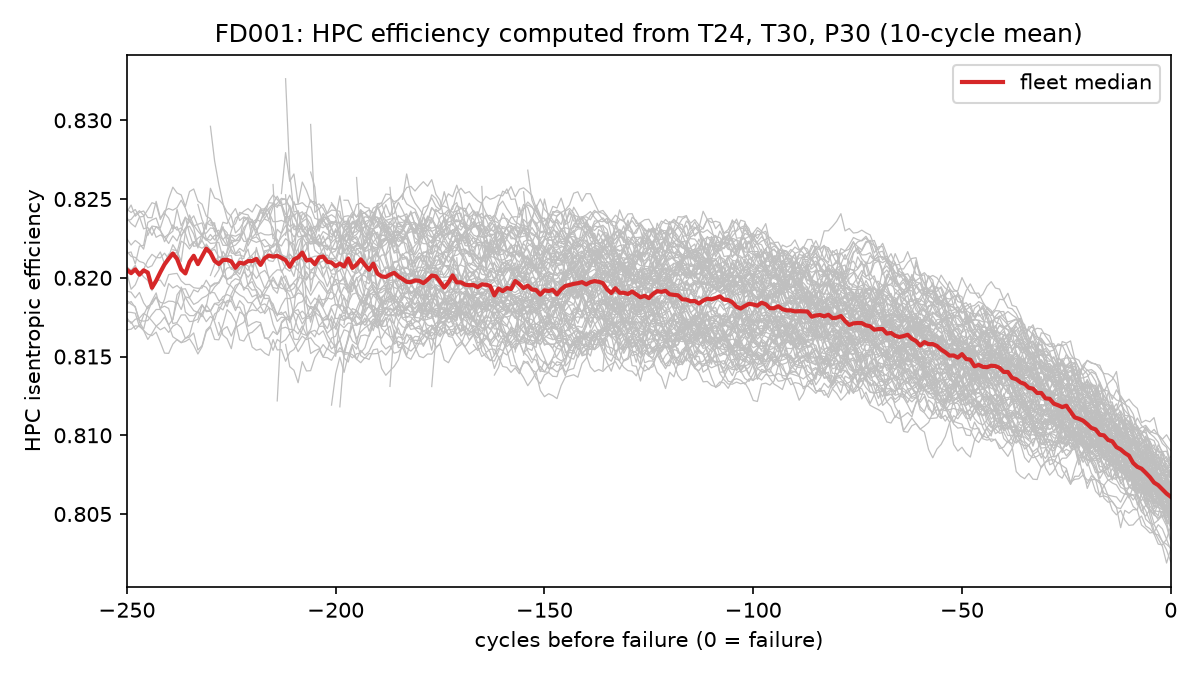
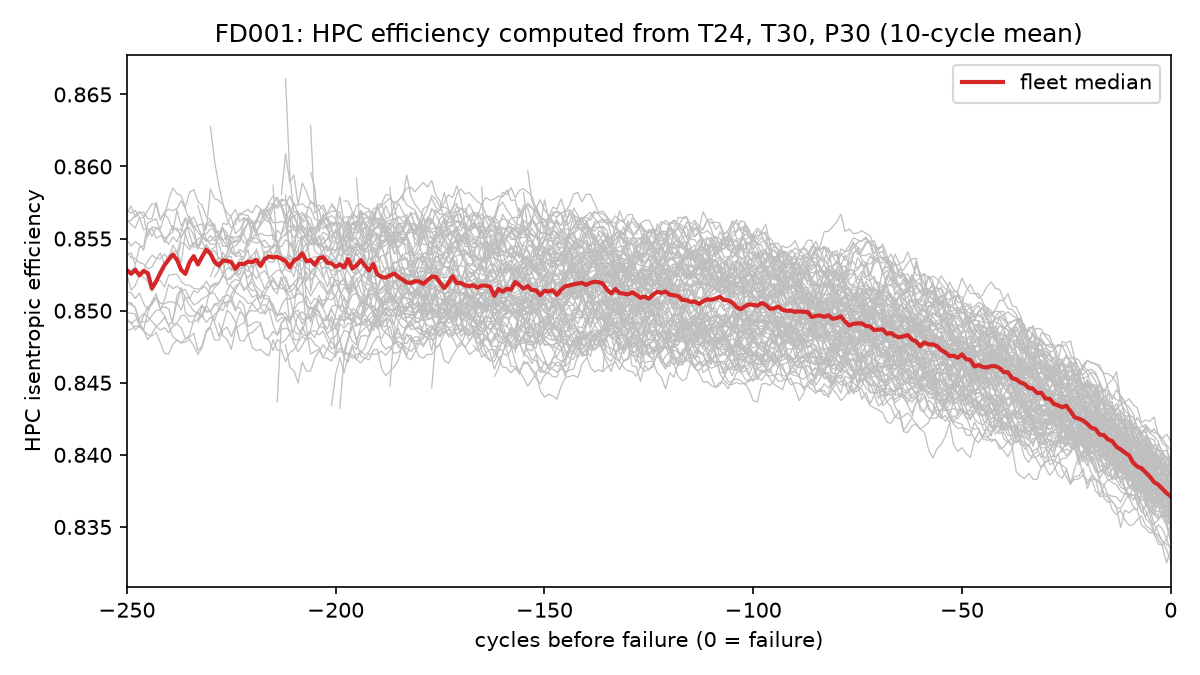
Week 2 step 2: variable-cp gas model, components, tests

diff --git a/src/physics/gas.py b/src/physics/gas.py
@@ -1,69 +1,155 @@
 """Gas properties and the basic compressor / turbine equations.
 
 Units follow the C-MAPSS data: temperature in degR, pressure in psia,
-energy in BTU per lbm of gas.
+energy in BTU per lbm.
 
-All temperatures and pressures here are TOTAL (stagnation) values,
-the ones a probe facing the flow measures.
+All temperatures and pressures are TOTAL (stagnation) values unless a
+name says "static".
+
+Step 2 upgrade: specific heat cp now changes with temperature and with
+fuel-air ratio (far). Air at 1600 degR has a cp about 10% higher than at
+room temperature, which matters for efficiency numbers.
+
+Instead of cp*dT we use two functions of temperature:
+  h(T)    enthalpy, the energy content of the gas        dh   = cp dT
+  phi(T)  entropy function, used for ideal compression   dphi = cp dT / T
+An ideal (isentropic) process from P1 to P2 obeys:
+  phi(T2) - phi(T1) = R * ln(P2 / P1)
 """
-from dataclasses import dataclass
+import numpy as np
+from numpy.polynomial import Polynomial as Poly
+
+# --- Property polynomials ---------------------------------------------------
+# cp in kJ/(kg K) as a polynomial in z = T[K] / 1000.
+# Source: Walsh & Fletcher, "Gas Turbine Performance", 2nd ed., ch. 3.
+# AIR: dry air. FUEL: correction for burnt kerosene, scaled by far/(1+far).
+_CP_AIR_SI = Poly([0.992313, 0.236688, -1.852148, 6.083152, -8.893933,
+                   7.097112, -3.234725, 0.794571, -0.081873])
+_CP_FUEL_SI = Poly([-0.718874, 8.747481, -15.863157, 17.254096, -10.233795,
+                    3.081778, -0.361112, -0.003919])
+
+KJKG_TO_BTULBM = 0.429923        # 1 kJ/kg   = 0.4299 BTU/lbm
+KJKGK_TO_BTULBMR = 0.238846      # 1 kJ/kg K = 0.2388 BTU/(lbm degR)
+R_GAS = 0.068557                 # gas constant of air, BTU/(lbm degR)
+T_REF = 518.67                   # reference temperature (59 degF), h = 0 here
+LHV = 18_400.0                   # jet fuel lower heating value, BTU/lbm
+
+# Same polynomials, rescaled so cp comes out in BTU/(lbm degR)
+_CP_AIR = _CP_AIR_SI * KJKGK_TO_BTULBMR
+_CP_FUEL = _CP_FUEL_SI * KJKGK_TO_BTULBMR
+
+# Integrals, done once. With z = T/1800 (T in degR): dT = 1800 dz.
+_H_AIR = _CP_AIR.integ() * 1800.0
+_H_FUEL = _CP_FUEL.integ() * 1800.0
+_Z_REF = T_REF / 1800.0
 
 
-@dataclass(frozen=True)
-class Gas:
-    """A gas with constant specific heat (a 'calorically perfect' gas)."""
-
-    name: str
-    cp: float     # specific heat at constant pressure, BTU/(lbm*degR)
-    gamma: float  # ratio of specific heats, cp/cv
-
-    @property
-    def k(self) -> float:
-        """Exponent (gamma - 1) / gamma in the isentropic relation T2/T1 = (P2/P1)**k."""
-        return (self.gamma - 1.0) / self.gamma
+def _z(t):
+    return np.asarray(t, dtype=float) / 1800.0
 
 
-# Cold section (fan, compressors). gamma = 1.37 is a mean value for air
-# between about 520 and 1600 degR; 1.40 is only right near room temperature.
-AIR = Gas("air", cp=0.245, gamma=1.37)
+def _blend(far):
+    """Weight of the fuel correction term."""
+    return far / (1.0 + far)
 
-# Hot section (combustor exit, turbines): air mixed with burnt fuel.
-HOT_GAS = Gas("combustion gas", cp=0.276, gamma=1.33)
+
+def cp(t, far=0.0):
+    """Specific heat, BTU/(lbm degR), at temperature t (degR)."""
+    return _CP_AIR(_z(t)) + _blend(far) * _CP_FUEL(_z(t))
+
+
+def enthalpy(t, far=0.0):
+    """Enthalpy per lbm of gas, BTU/lbm, measured from T_REF."""
+    z = _z(t)
+    h_air = _H_AIR(z) - _H_AIR(_Z_REF)
+    h_fuel = _H_FUEL(z) - _H_FUEL(_Z_REF)
+    return h_air + _blend(far) * h_fuel
+
+
+def entropy_fn(t, far=0.0):
+    """phi(T) = integral of cp/T dT, BTU/(lbm degR). Only differences matter."""
+    z = _z(t)
+
+    def phi(poly):
+        c = poly.coef
+        # integral of (c0 + c1 z + c2 z^2 ...) / z dz = c0 ln z + c1 z + c2 z^2/2 ...
+        rest = Poly(np.concatenate([[0.0], c[1:] / np.arange(1, len(c))]))
+        return c[0] * np.log(z) + rest(z)
+
+    return phi(_CP_AIR) + _blend(far) * phi(_CP_FUEL)
+
+
+def gamma(t, far=0.0):
+    """Ratio of specific heats cp/cv at temperature t."""
+    c = cp(t, far)
+    return c / (c - R_GAS)
+
+
+# --- Inverting the property functions ---------------------------------------
+# Newton's method: T_new = T - (f(T) - target) / f'(T). Works on arrays too.
+
+def temp_from_enthalpy(h, far=0.0):
+    """Temperature (degR) that has enthalpy h."""
+    t = np.full_like(np.asarray(h, dtype=float), 1000.0)
+    for _ in range(30):
+        t = t - (enthalpy(t, far) - h) / cp(t, far)
+    return t
+
+
+def temp_from_entropy_fn(phi, far=0.0):
+    """Temperature (degR) that has entropy function phi."""
+    t = np.full_like(np.asarray(phi, dtype=float), 1000.0)
+    for _ in range(30):
+        t = t - (entropy_fn(t, far) - phi) * t / cp(t, far)
+    return t
+
+
+def isentropic_temp(t_in, pr, far=0.0):
+    """Exit temperature of an ideal process through pressure ratio pr = P_out/P_in."""
+    return temp_from_entropy_fn(entropy_fn(t_in, far) + R_GAS * np.log(pr), far)
 
 
 # --- Compressor -------------------------------------------------------------
-# Ideal (isentropic) exit temperature: T_ideal = T_in * PR**k
-# Isentropic efficiency:  eta = (T_ideal - T_in) / (T_out - T_in)
-# An efficiency below 1 means extra temperature rise (wasted work) for the
-# same pressure rise. HPC degradation in FD001 is exactly this.
+# Isentropic efficiency = ideal enthalpy rise / real enthalpy rise.
+# Below 1 means extra temperature rise (wasted work) for the same pressure
+# rise. HPC degradation in FD001 is exactly this.
 
-def compressor_exit_temp(t_in: float, pr: float, eta: float, gas: Gas = AIR) -> float:
+def compressor_exit_temp(t_in, pr, eta, far=0.0):
     """Exit total temperature for a given pressure ratio and efficiency."""
-    t_ideal = t_in * pr ** gas.k
-    return t_in + (t_ideal - t_in) / eta
+    h_in = enthalpy(t_in, far)
+    dh_ideal = enthalpy(isentropic_temp(t_in, pr, far), far) - h_in
+    return temp_from_enthalpy(h_in + dh_ideal / eta, far)
 
 
-def compressor_efficiency(t_in: float, t_out: float, pr: float, gas: Gas = AIR) -> float:
+def compressor_efficiency(t_in, t_out, pr, far=0.0):
     """Isentropic efficiency from measured inlet/exit temperatures and pressure ratio."""
-    return t_in * (pr ** gas.k - 1.0) / (t_out - t_in)
+    h_in = enthalpy(t_in, far)
+    dh_ideal = enthalpy(isentropic_temp(t_in, pr, far), far) - h_in
+    return dh_ideal / (enthalpy(t_out, far) - h_in)
 
 
-def compressor_pressure_ratio(t_in: float, t_out: float, eta: float, gas: Gas = AIR) -> float:
+def compressor_pressure_ratio(t_in, t_out, eta, far=0.0):
     """Pressure ratio that gives a measured temperature rise at a given efficiency."""
-    return (1.0 + eta * (t_out / t_in - 1.0)) ** (1.0 / gas.k)
+    h_in = enthalpy(t_in, far)
+    h_ideal = h_in + eta * (enthalpy(t_out, far) - h_in)
+    t_ideal = temp_from_enthalpy(h_ideal, far)
+    return np.exp((entropy_fn(t_ideal, far) - entropy_fn(t_in, far)) / R_GAS)
 
 
 # --- Turbine ----------------------------------------------------------------
-# Expansion through pressure ratio PR = P_in / P_out (> 1).
-# eta = (T_in - T_out) / (T_in - T_ideal), with T_ideal = T_in / PR**k
+# Efficiency = real enthalpy drop / ideal enthalpy drop (the inverse of a
+# compressor). pr = P_in / P_out > 1.
 
-def turbine_exit_temp(t_in: float, pr: float, eta: float, gas: Gas = HOT_GAS) -> float:
+def turbine_exit_temp(t_in, pr, eta, far=0.0):
     """Exit total temperature after expanding through pressure ratio pr."""
-    return t_in * (1.0 - eta * (1.0 - pr ** -gas.k))
+    h_in = enthalpy(t_in, far)
+    dh_ideal = h_in - enthalpy(isentropic_temp(t_in, 1.0 / pr, far), far)
+    return temp_from_enthalpy(h_in - eta * dh_ideal, far)
 
 
-# --- Work -------------------------------------------------------------------
-
-def specific_work(t_in: float, t_out: float, gas: Gas) -> float:
-    """Work per lbm of gas, BTU/lbm. Positive when temperature rises (compressor)."""
-    return gas.cp * (t_out - t_in)
+def turbine_pressure_ratio(t_in, t_out, eta, far=0.0):
+    """Pressure ratio P_in/P_out that gives a required temperature drop."""
+    h_in = enthalpy(t_in, far)
+    h_ideal = h_in - (h_in - enthalpy(t_out, far)) / eta
+    t_ideal = temp_from_enthalpy(h_ideal, far)
+    return np.exp((entropy_fn(t_in, far) - entropy_fn(t_ideal, far)) / R_GAS)

diff --git a/src/physics/components.py b/src/physics/components.py
@@ -1,0 +1,145 @@
+"""Engine components as small functions: each takes a gas flow in, gives a flow out.
+
+A Flow is the state of the gas at one station: mass flow, total temperature,
+total pressure and fuel-air ratio. Power is in BTU/s (1 BTU/s = 1.055 kW).
+
+Run the demo from the repo root:
+    python -m src.physics.components
+"""
+from dataclasses import dataclass, replace
+
+import numpy as np
+
+from src.data_loader import load_train
+from src.physics import gas
+
+GC = 32.174      # lbm*ft / (lbf*s^2), converts mass to force units
+J = 778.17       # ft*lbf per BTU
+R_FT = gas.R_GAS * J   # gas constant in ft*lbf/(lbm*degR), about 53.35
+
+
+@dataclass(frozen=True)
+class Flow:
+    w: float          # mass flow, lbm/s
+    t: float          # total temperature, degR
+    p: float          # total pressure, psia
+    far: float = 0.0  # fuel-air ratio (0 = pure air)
+
+    @property
+    def h(self) -> float:
+        """Enthalpy per lbm, BTU/lbm."""
+        return float(gas.enthalpy(self.t, self.far))
+
+
+def split(flow: Flow, fraction: float) -> tuple[Flow, Flow]:
+    """Split a flow in two (e.g. bypass vs core, or a cooling bleed).
+    Returns (remaining, taken), where taken = fraction of the mass flow."""
+    taken = replace(flow, w=flow.w * fraction)
+    return replace(flow, w=flow.w - taken.w), taken
+
+
+def compressor(flow: Flow, pr: float, eta: float) -> tuple[Flow, float]:
+    """Raise pressure by pr. Returns (exit flow, power absorbed in BTU/s)."""
+    t_out = float(gas.compressor_exit_temp(flow.t, pr, eta, flow.far))
+    out = replace(flow, t=t_out, p=flow.p * pr)
+    return out, flow.w * (out.h - flow.h)
+
+
+def combustor(flow: Flow, t_out: float, dp: float = 0.05,
+              eta_b: float = 0.995) -> tuple[Flow, float]:
+    """Burn fuel until the exit reaches t_out. dp = fractional pressure loss.
+    Returns (exit flow, fuel flow in lbm/s).
+
+    Energy balance per lbm of air (fuel enthalpy is included in LHV):
+        h_air(T3) + far * eta_b * LHV = (1 + far) * h_gas(T4, far)
+    h_gas depends on far, so iterate a few times.
+    """
+    far = 0.02
+    for _ in range(20):
+        h_out = float(gas.enthalpy(t_out, far))
+        far = (h_out - flow.h) / (eta_b * gas.LHV - h_out)
+    wf = flow.w * far
+    return Flow(w=flow.w + wf, t=t_out, p=flow.p * (1.0 - dp), far=far), wf
+
+
+def turbine(flow: Flow, power: float, eta: float) -> Flow:
+    """Extract a given power (BTU/s). The pressure ratio follows from it."""
+    h_out = flow.h - power / flow.w
+    t_out = float(gas.temp_from_enthalpy(h_out, flow.far))
+    pr = float(gas.turbine_pressure_ratio(flow.t, t_out, eta, flow.far))
+    return replace(flow, t=t_out, p=flow.p / pr)
+
+
+def mix(main: Flow, extra: Flow) -> Flow:
+    """Mix two flows (e.g. cooling air rejoining the gas path).
+    Energy and fuel are conserved; the main stream sets the pressure."""
+    w = main.w + extra.w
+    fuel = main.w * main.far / (1 + main.far) + extra.w * extra.far / (1 + extra.far)
+    far = fuel / (w - fuel)
+    h = (main.w * main.h + extra.w * extra.h) / w
+    return Flow(w=w, t=float(gas.temp_from_enthalpy(h, far)), p=main.p, far=far)
+
+
+def nozzle(flow: Flow, p_amb: float) -> dict:
+    """Convergent nozzle. Returns gross thrust (lbf), exit velocity (ft/s),
+    exit area (in^2) and whether the throat is choked (sonic)."""
+    g = float(gas.gamma(flow.t, flow.far))
+    p_crit = flow.p / ((g + 1) / 2) ** (g / (g - 1))   # pressure at Mach 1
+    choked = p_crit > p_amb
+    p_exit = p_crit if choked else p_amb
+    t_static = float(gas.isentropic_temp(flow.t, p_exit / flow.p, flow.far))
+    dh = flow.h - float(gas.enthalpy(t_static, flow.far))
+    v = np.sqrt(2 * GC * J * dh)
+    rho = p_exit * 144 / (R_FT * t_static)            # lbm/ft^3
+    area = flow.w / (rho * v)                          # ft^2
+    thrust = flow.w * v / GC + (p_exit - p_amb) * 144 * area
+    return {"thrust": thrust, "velocity": v, "area_in2": area * 144, "choked": choked}
+
+
+def demo() -> None:
+    """Push a new FD001 engine through the components, using sensor values
+    where they exist and guesses (marked) where they don't. Step 3 replaces
+    the guesses with a proper calibration."""
+    df = load_train()
+    new = df[df["cycle"] <= 20].mean(numeric_only=True)
+    t2, p2, t24, t30, p30 = new["s1"], new["s5"], new["s2"], new["s3"], new["s7"]
+    t50_measured, bpr, p15 = new["s4"], new["s15"], new["s6"]
+
+    W_CORE = 100.0    # guess; temperatures and pressures don't depend on it
+    ETA_LPC, ETA_FAN, ETA_HPT, ETA_LPT = 0.88, 0.90, 0.89, 0.90   # guesses
+    T4 = 2800.0       # turbine inlet temperature, degR (guess)
+
+    inlet = Flow(w=W_CORE * (1 + bpr), t=t2, p=p2)
+    core, bypass = split(inlet, bpr / (1 + bpr))
+
+    # Fan (bypass side): pressure ratio from P15/P2
+    bypass_out, p_fan = compressor(bypass, p15 / p2, ETA_FAN)
+    # LPC: pick the pressure ratio that reproduces measured T24
+    s24, p_lpc = compressor(core, float(gas.compressor_pressure_ratio(t2, t24, ETA_LPC)), ETA_LPC)
+    # HPC: measured pressure ratio; efficiency from measured T30
+    pr_hpc = p30 / s24.p
+    eta_hpc = float(gas.compressor_efficiency(t24, t30, pr_hpc))
+    s30, p_hpc = compressor(s24, pr_hpc, eta_hpc)
+    s40, wf = combustor(s30, T4)
+    s45 = turbine(s40, p_hpc, ETA_HPT)              # HPT drives the HPC
+    s50 = turbine(s45, p_lpc + p_fan, ETA_LPT)       # LPT drives fan + LPC
+    core_noz, fan_noz = nozzle(s50, p2), nozzle(bypass_out, p2)
+
+    print(f"{'station':<22}{'T (degR)':>10}{'P (psia)':>10}{'W (lbm/s)':>11}")
+    for name, f in [("2  inlet (core)", core), ("24 LPC exit", s24),
+                    ("30 HPC exit", s30), ("40 combustor exit", s40),
+                    ("45 HPT exit", s45), ("50 LPT exit", s50),
+                    ("13 fan exit (bypass)", bypass_out)]:
+        print(f"{name:<22}{f.t:10.1f}{f.p:10.2f}{f.w:11.1f}")
+    print(f"\nHPC efficiency with variable cp: {eta_hpc:.4f}  (step 1, constant cp: 0.8202)")
+    print(f"Fuel-air ratio {s40.far:.4f}, fuel flow {wf:.2f} lbm/s")
+    print(f"Power  HPC {p_hpc / 0.9478:,.0f} kW   LPC {p_lpc / 0.9478:,.0f} kW   "
+          f"fan {p_fan / 0.9478:,.0f} kW")
+    print(f"Nozzles: core choked={core_noz['choked']}, bypass choked={fan_noz['choked']}; "
+          f"gross thrust {core_noz['thrust'] + fan_noz['thrust']:,.0f} lbf")
+    print(f"\nT50 predicted {s50.t:.1f}  vs measured {t50_measured:.1f} degR "
+          f"(error {s50.t - t50_measured:+.1f})")
+
+
+if __name__ == "__main__":
+    demo()

diff --git a/tests/test_gas.py b/tests/test_gas.py
@@ -1,0 +1,56 @@
+"""Checks for the gas model and components. Run from the repo root:
+    python -m pytest -q
+"""
+import pytest
+
+from src.physics import gas
+from src.physics.components import Flow, combustor, compressor, mix, turbine
+
+
+def test_cp_matches_air_tables():
+    # Air tables: cp = 1.005 kJ/kgK at 300 K (540 degR), 1.142 at 1000 K (1800 degR)
+    assert gas.cp(540.0) / gas.KJKGK_TO_BTULBMR == pytest.approx(1.005, abs=0.003)
+    assert gas.cp(1800.0) / gas.KJKGK_TO_BTULBMR == pytest.approx(1.142, abs=0.003)
+
+
+def test_gamma_is_1_4_at_room_temperature():
+    assert gas.gamma(540.0) == pytest.approx(1.40, abs=0.002)
+
+
+def test_inverse_functions_round_trip():
+    for t in (600.0, 1500.0, 2800.0):
+        assert gas.temp_from_enthalpy(gas.enthalpy(t, 0.02), 0.02) == pytest.approx(t)
+        assert gas.temp_from_entropy_fn(gas.entropy_fn(t)) == pytest.approx(t)
+
+
+def test_compressor_functions_agree():
+    t_out = gas.compressor_exit_temp(642.0, 19.0, 0.85)
+    assert gas.compressor_efficiency(642.0, t_out, 19.0) == pytest.approx(0.85)
+    assert gas.compressor_pressure_ratio(642.0, t_out, 0.85) == pytest.approx(19.0)
+
+
+def test_lower_efficiency_means_hotter_exit():
+    assert gas.compressor_exit_temp(642.0, 19.0, 0.84) > gas.compressor_exit_temp(642.0, 19.0, 0.86)
+
+
+def test_turbine_gives_back_compressor_power():
+    # Energy conservation: the turbine removes exactly the power asked for
+    air, power = compressor(Flow(w=100.0, t=642.0, p=28.5), 19.0, 0.85)
+    hot, _ = combustor(air, 2800.0)
+    out = turbine(hot, power, 0.89)
+    assert hot.w * (hot.h - out.h) == pytest.approx(power)
+    assert out.p < hot.p
+
+
+def test_combustor_fuel_air_ratio_is_realistic():
+    hot, wf = combustor(Flow(w=100.0, t=1587.0, p=554.0), 2800.0)
+    assert 0.015 < hot.far < 0.03
+    assert hot.w == pytest.approx(100.0 + wf)
+
+
+def test_mixing_conserves_energy():
+    a, b = Flow(w=90.0, t=2000.0, p=100.0, far=0.02), Flow(w=10.0, t=1000.0, p=110.0)
+    m = mix(a, b)
+    assert m.w == pytest.approx(100.0)
+    assert m.w * m.h == pytest.approx(a.w * a.h + b.w * b.h)
+    assert 1000.0 < m.t < 2000.0
